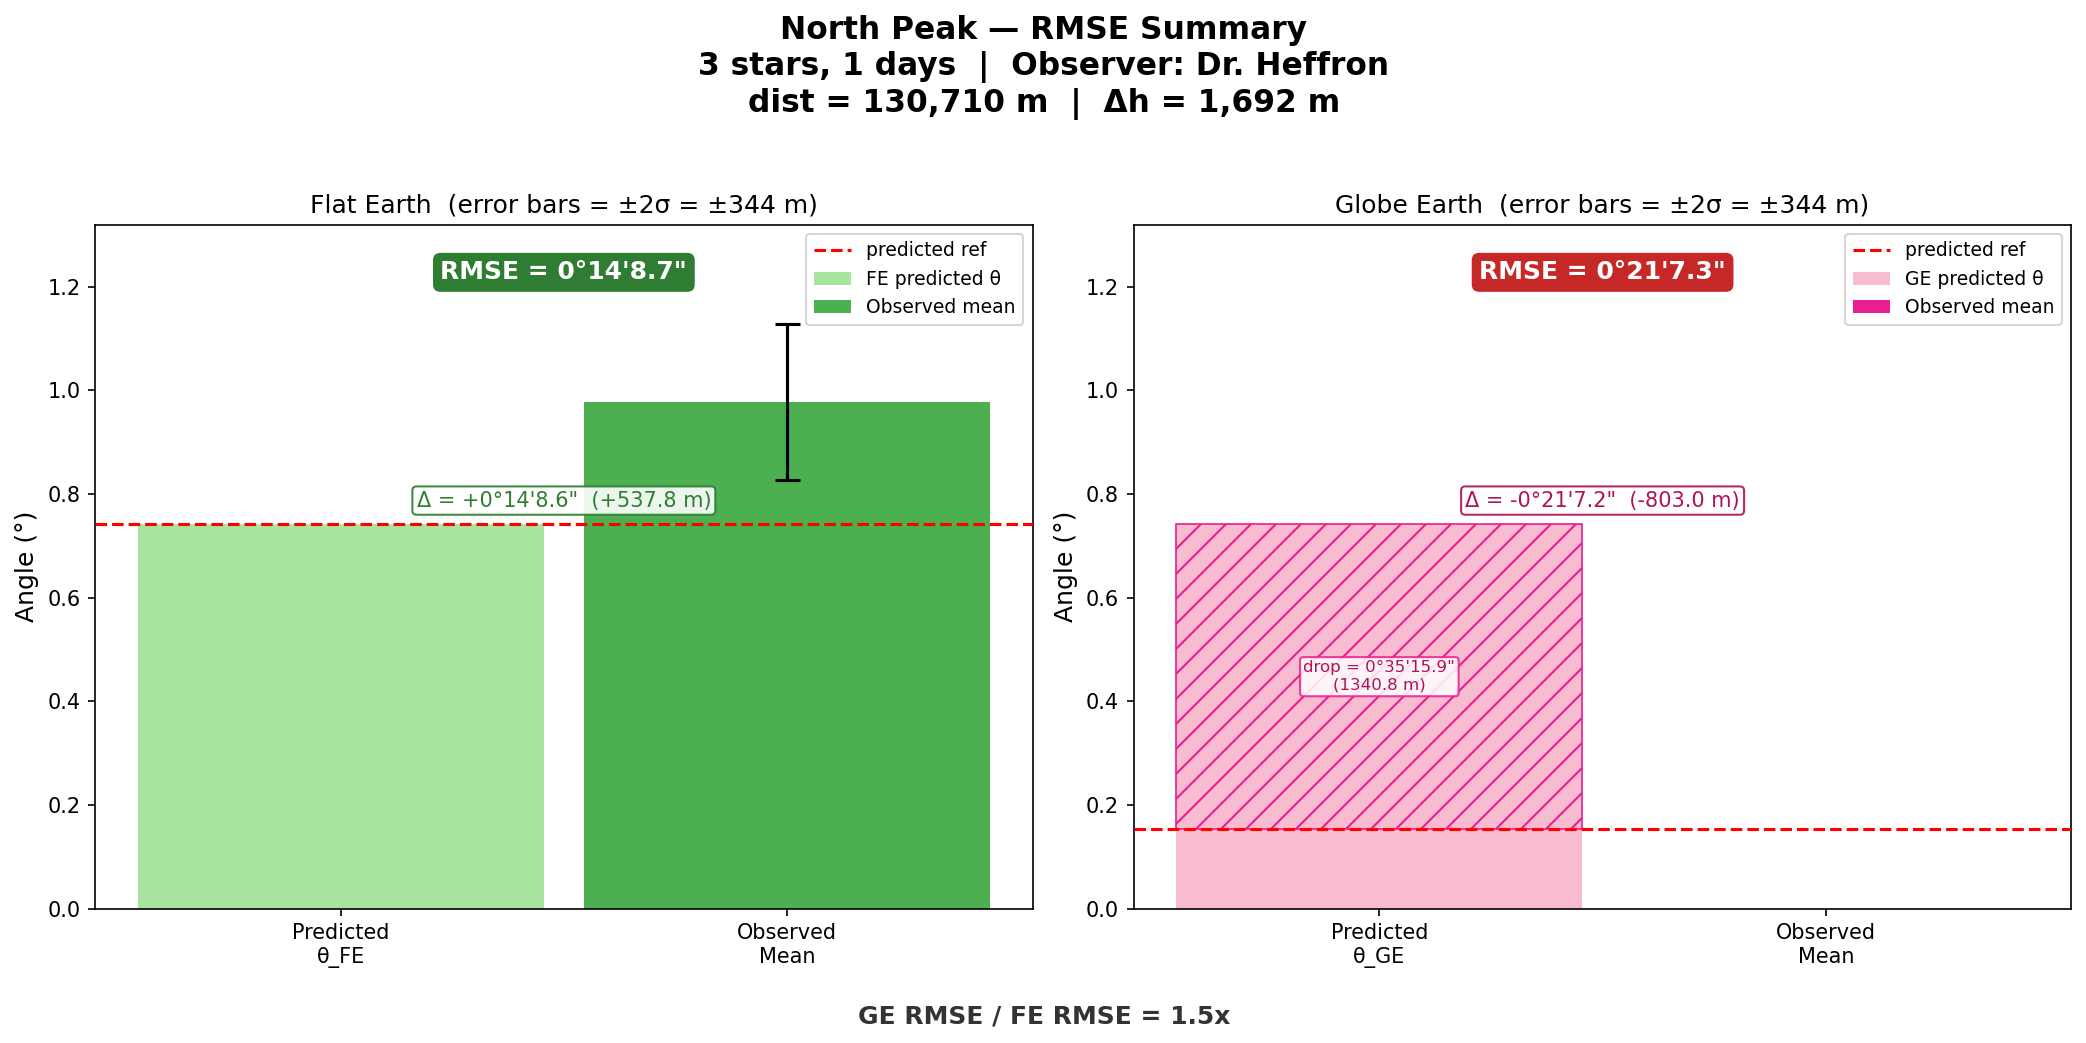
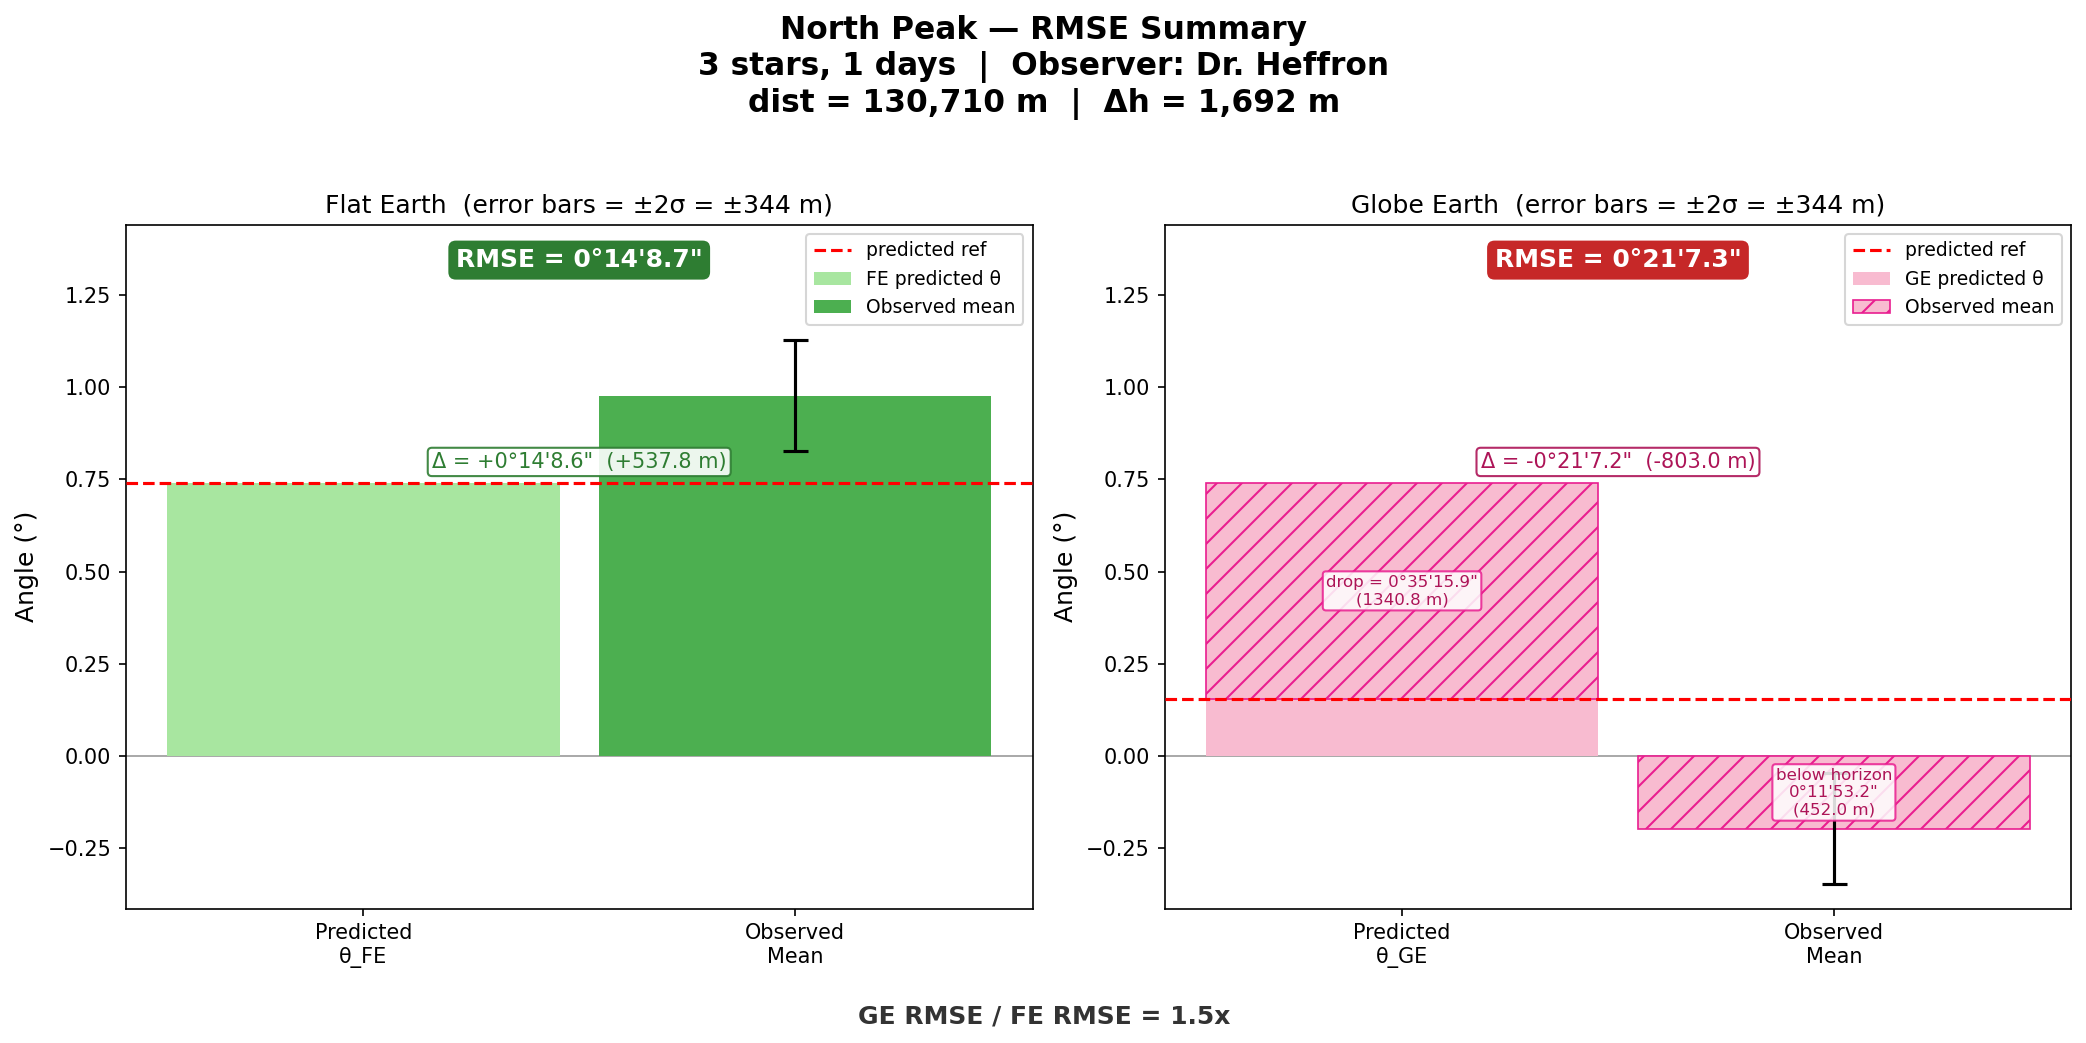
Fix North Peak graph for negative GE observed mean
Handle negative y-values by extending axis below zero with baseline.
Below-horizon GE observed mean now uses hatched pink style matching
the curvature drop zone, with label showing degrees below horizon.

diff --git a/celtheo.py b/celtheo.py
@@ -545,11 +545,17 @@ def _rmse_graph(peak_name, peak, pred_fe, pred_ge, inscribed_angles,
     )
 
     # Both panels share the same y-axis scale for fair visual comparison.
-    # 1.35x headroom leaves space for annotations above the bars.
-    y_max = max(theta_fe, fe_obs_mean, theta_ge, ge_obs_mean) * 1.35
+    # Handle negative observed means (e.g., North Peak GE) by extending y-axis below 0.
+    y_max_val = max(theta_fe, fe_obs_mean, theta_ge, ge_obs_mean)
+    y_min_val = min(0, fe_obs_mean - 2 * sigma, ge_obs_mean - 2 * sigma)
+    y_range = y_max_val - y_min_val
+    y_max = y_max_val + y_range * 0.35      # headroom for annotations
+    y_min = y_min_val - y_range * 0.05 if y_min_val < 0 else 0
     for ax in (ax_fe, ax_ge):
-        ax.set_ylim(0, y_max)
+        ax.set_ylim(y_min, y_max)
         ax.set_ylabel("Angle (°)", fontsize=12)
+        if y_min < 0:
+            ax.axhline(y=0, color="#999999", linewidth=0.8, zorder=1)
 
     # ────────────────────────────────────────────────────
     #  LEFT PANEL — Flat Earth (green)
@@ -621,8 +627,23 @@ def _rmse_graph(peak_name, peak, pred_fe, pred_ge, inscribed_angles,
     mpl.rcParams['hatch.color'] = "#e91e90"
 
     # Magenta bar: observed mean EL, with ±2σ error bars
-    ax_ge.bar(0.55, ge_obs_mean, width=0.5, color="#e91e90", edgecolor="none",
-              label="Observed mean", zorder=2)
+    # When observed mean is negative (below geometric horizon), use hatched style
+    # like the curvature drop zone to visually show the below-horizon portion.
+    if ge_obs_mean < 0:
+        # Solid bar from 0 to ge_obs_mean (draws downward)
+        ax_ge.bar(0.55, ge_obs_mean, width=0.5, color="#f8bbd0",
+                  edgecolor="#e91e90", linewidth=0.8, hatch="//",
+                  label="Observed mean", zorder=2)
+        below_m = d * math.tan(math.radians(abs(ge_obs_mean)))
+        ax_ge.text(0.55, ge_obs_mean / 2,
+                   f"below horizon\n{deg_to_dms(abs(ge_obs_mean))}\n({below_m:.1f} m)",
+                   fontsize=8, color="#ad1457", ha="center", va="center",
+                   bbox=dict(boxstyle="round,pad=0.2", facecolor="white",
+                             edgecolor="#e91e90", alpha=0.85),
+                   zorder=5)
+    else:
+        ax_ge.bar(0.55, ge_obs_mean, width=0.5, color="#e91e90", edgecolor="none",
+                  label="Observed mean", zorder=2)
     ax_ge.errorbar(0.55, ge_obs_mean, yerr=2 * sigma, fmt="none",
                    ecolor="black", capsize=6, capthick=1.5, linewidth=1.5, zorder=3)
 

diff --git a/README.md b/README.md
@@ -4,7 +4,7 @@ A tool for testing the shape of the Earth using star occultations behind mountai
 
 ## What It Does
 
-When a star disappears behind a mountain peak, the exact time tells us the star's precise position. Two geometric models predict where the star *should* be at that moment:
+When a star disappears behind a mountain peak, the exact time tells us the star's precise position within the celestial sphere model. Two geometric models predict where the star *should* be at that moment:
 
 - **Flat Earth (FE):** Simple rise-over-run angle from observer to peak — `arctan(height_difference / distance)`
 - **Globe Earth (GE):** Same angle minus a curvature correction — the "inscribed angle" that accounts for Earth's curve over the observer-to-peak distance
